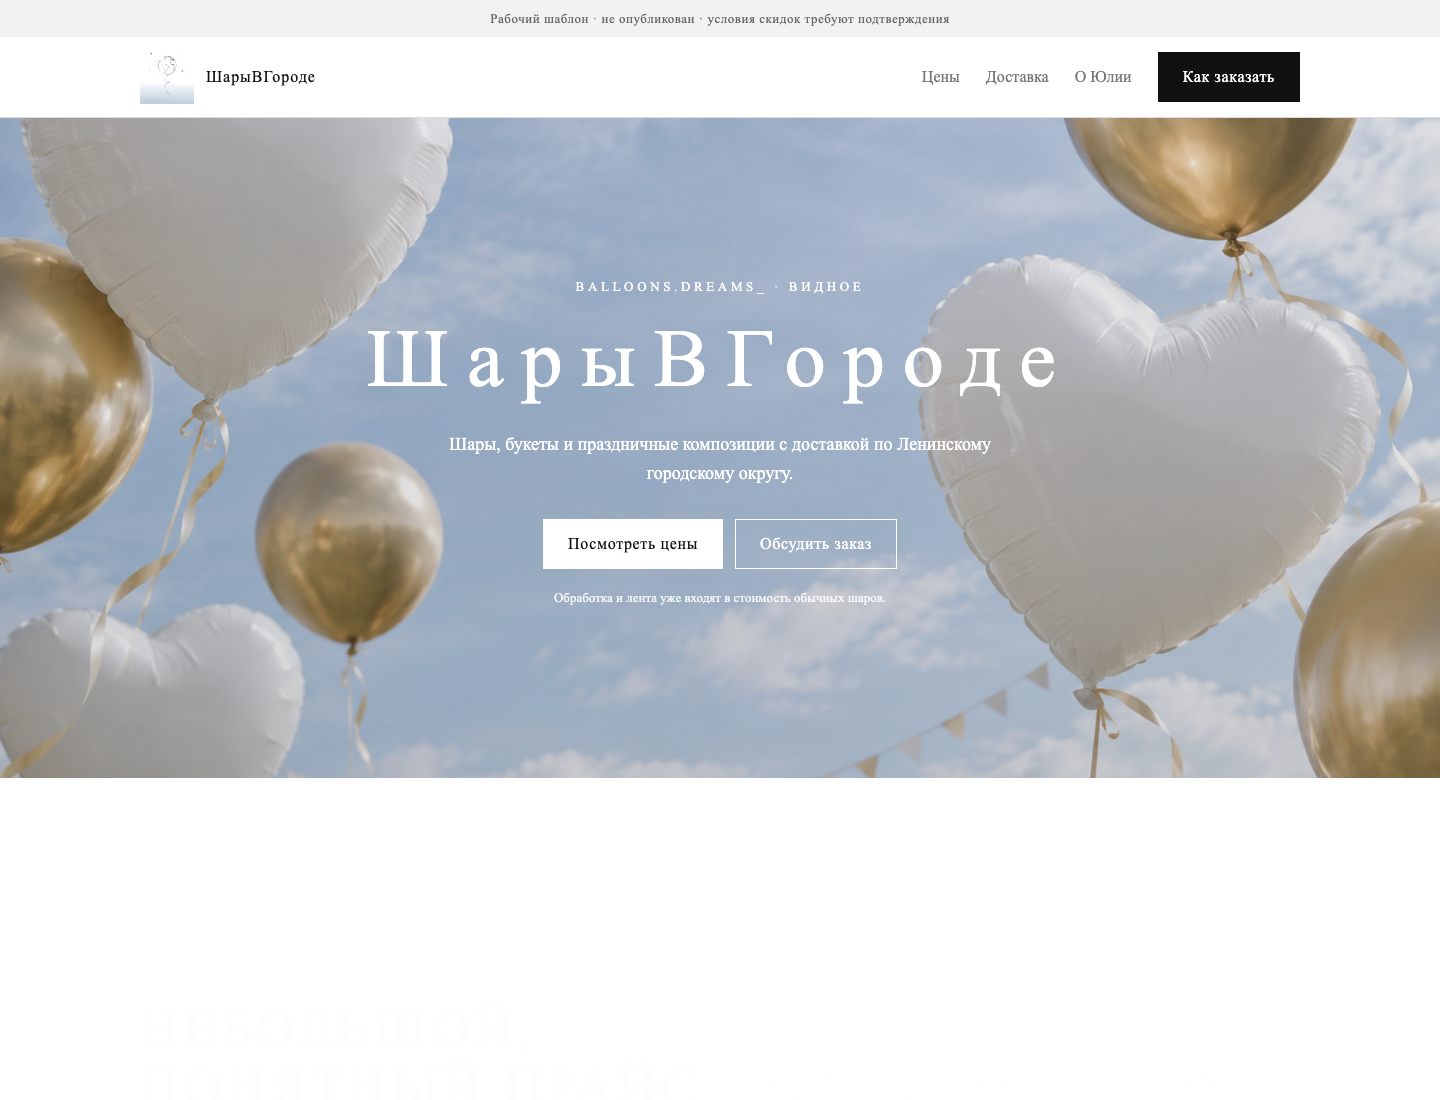
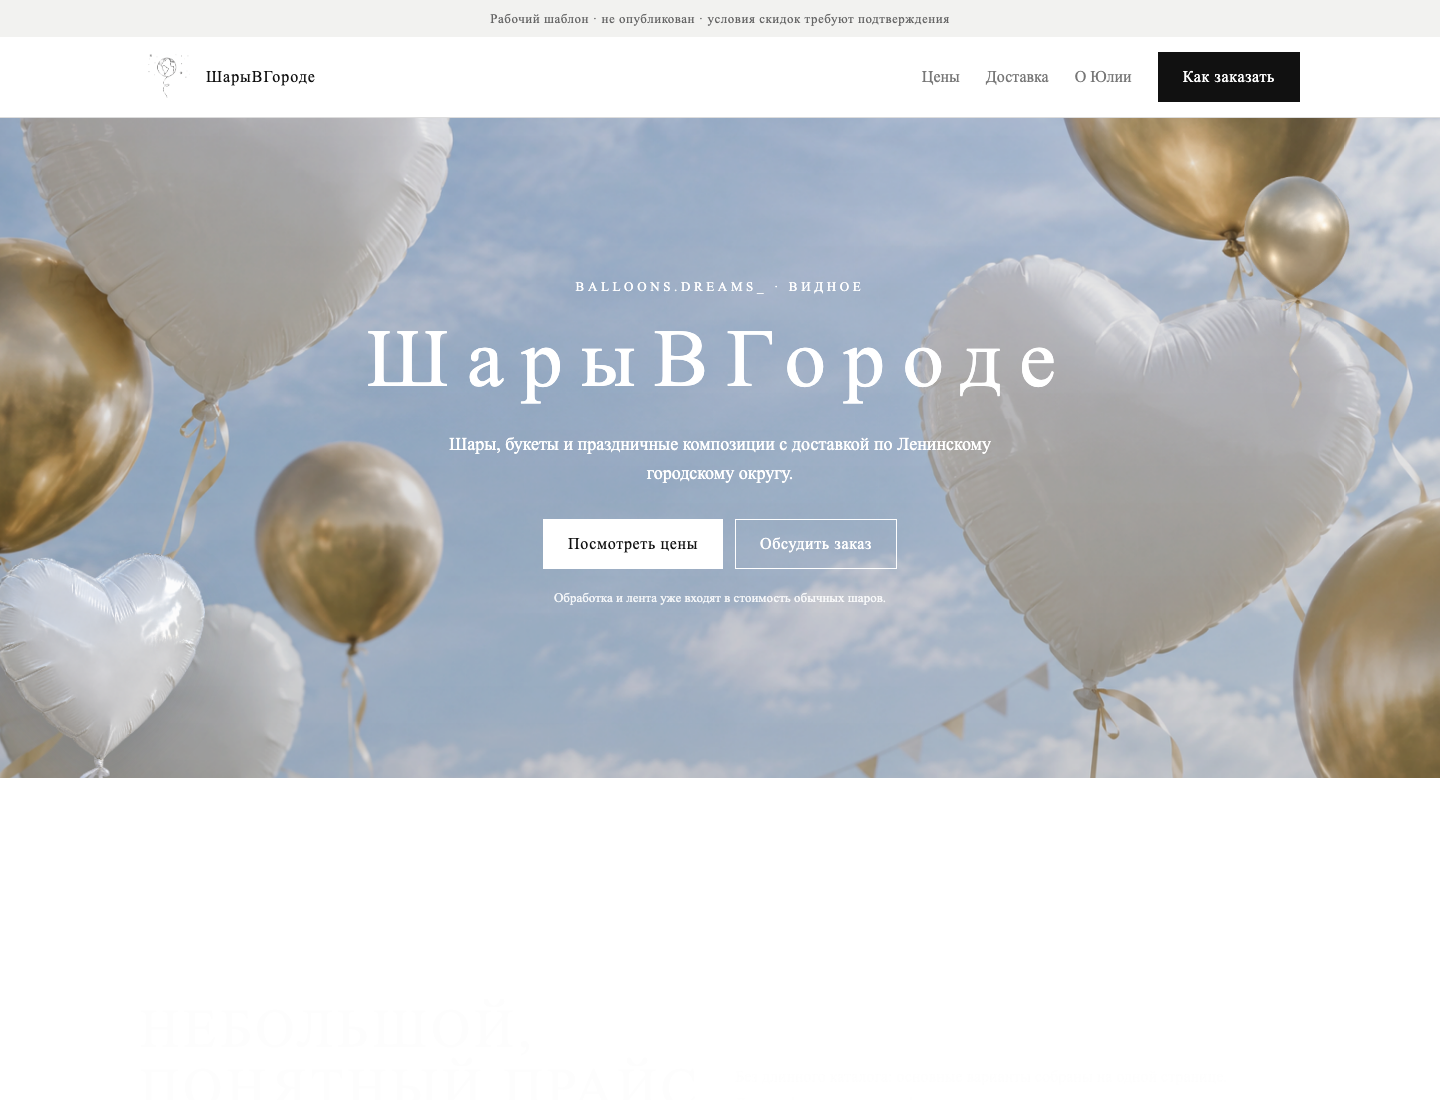
Обновить дизайн, анимации и шапку

Changed region(s): [[0.0, 0.4945, 0.1562, 0.7109], [0.8438, 0.1545, 0.9375, 0.2782], [0.0938, 0.0618, 0.1562, 0.0927]]

diff --git a/index.html b/index.html
@@ -50,7 +50,7 @@
     }
     nav { min-height: 80px; display: flex; align-items: center; justify-content: space-between; gap: 24px; }
     .brand { display: flex; align-items: center; gap: 12px; text-decoration: none; font-weight: 400; letter-spacing: .06em; }
-    .brand img { width: 54px; height: 54px; object-fit: cover; mix-blend-mode: multiply; }
+    .brand img { width: 54px; height: 54px; object-fit: contain; }
     .nav-links { display: flex; gap: 26px; align-items: center; color: var(--muted); }
     .nav-links a { text-decoration: none; font-size: 16px; }
     .button {
@@ -86,10 +86,21 @@
     }
     .hero-card::after { content: ""; position: absolute; z-index: 0; inset: -3%; background: url("assets/hero-reference-style.png") center/cover no-repeat; animation: hero-drift 14s ease-in-out infinite alternate; }
     .hero-card::before { content: ""; position: absolute; z-index: 1; inset: 0; background: linear-gradient(rgba(0,0,0,.08), rgba(0,0,0,.15)); }
-    .hero-copy { position: relative; z-index: 2; max-width: 900px; margin: auto; padding: 80px 24px; color: #fff; text-align: center; }
+    .hero-float { position: absolute; z-index: 2; height: auto; pointer-events: none; filter: drop-shadow(0 18px 22px rgba(32,47,64,.14)); }
+    .hero-float--heart { left: -2%; bottom: -20%; width: clamp(180px, 18vw, 280px); animation: float-heart 5.8s ease-in-out infinite; }
+    .hero-float--gold { right: 3%; top: 13%; width: clamp(115px, 11vw, 175px); animation: float-gold 7s ease-in-out -2.4s infinite; }
+    .hero-copy { position: relative; z-index: 3; max-width: 900px; margin: auto; padding: 80px 24px; color: #fff; text-align: center; }
     @keyframes hero-drift {
       from { transform: translate3d(-.7%, .5%, 0) scale(1.01); }
       to { transform: translate3d(.7%, -1.2%, 0) scale(1.055); }
+    }
+    @keyframes float-heart {
+      0%, 100% { transform: translate3d(0, 14px, 0) rotate(-2deg); }
+      50% { transform: translate3d(18px, -34px, 0) rotate(3deg); }
+    }
+    @keyframes float-gold {
+      0%, 100% { transform: translate3d(0, 18px, 0) rotate(2deg); }
+      50% { transform: translate3d(-22px, -42px, 0) rotate(-3deg); }
     }
     .eyebrow { margin: 0 0 18px; color: inherit; font-size: 13px; font-weight: 400; letter-spacing: .28em; text-transform: uppercase; }
     h1, h2 { margin: 0; font-family: "Times New Roman", Times, serif; font-weight: 400; line-height: 1.08; }
@@ -180,11 +191,14 @@
     footer .shell { display: flex; justify-content: space-between; gap: 20px; border-top: 1px solid var(--line); padding-top: 24px; }
 
     @media (max-width: 860px) {
-      .nav-links a:not(.button) { display: none; }
+      .nav-links { gap: 14px; }
+      .nav-links a { font-size: 14px; }
       .hero-card { min-height: 640px; grid-template-columns: 1fr; align-items: center; background-position: center; }
       .hero-card::before { background: rgba(0,0,0,.12); }
       .hero-card { position: relative; }
       .hero-copy { padding: 80px 24px; }
+      .hero-float--heart { left: -80px; width: 230px; }
+      .hero-float--gold { right: -45px; width: 145px; }
       .section-head, .delivery-grid, .about-grid, .order-card { grid-template-columns: 1fr; }
       .price-grid { grid-template-columns: 1fr 1fr; }
       .portrait-placeholder { min-height: 340px; }
@@ -198,6 +212,8 @@
       .hero { padding-top: 0; }
       .hero-card { min-height: 560px; border-radius: 0; background-position: center; }
       .hero-copy { padding: 70px 22px; }
+      .hero-float--heart { left: -78px; bottom: -15%; width: 190px; }
+      .hero-float--gold { right: -48px; top: 11%; width: 125px; }
       h1 { max-width: 100%; font-size: clamp(34px, 11vw, 48px); letter-spacing: .14em; overflow-wrap: anywhere; }
       .lead { margin: 18px 0 22px; font-size: 16px; }
       .actions .button { width: 100%; }
@@ -211,6 +227,7 @@
     @media (prefers-reduced-motion: reduce) {
       html { scroll-behavior: auto; }
       .hero-card::after { animation: none; }
+      .hero-float { animation: none; }
       .has-motion .reveal { opacity: 1; transform: none; transition: none; }
     }
   </style>
@@ -219,9 +236,9 @@
   <div class="draft">Рабочий шаблон · не опубликован · условия скидок требуют подтверждения</div>
   <header>
     <nav class="shell" aria-label="Основная навигация">
-      <a class="brand" href="#top"><img src="assets/logo-original.jpg" alt="Логотип «ШарыВГороде»: воздушный шар с глобусом"><span>ШарыВГороде</span></a>
+      <a class="brand" href="#top"><img src="assets/logo-clean.png" alt="Логотип «ШарыВГороде»: воздушный шар с глобусом"><span>ШарыВГороде</span></a>
       <div class="nav-links">
-        <a href="#prices">Цены</a><a href="#delivery">Доставка</a><a href="#about">О Юлии</a><a class="button" href="#order">Как заказать</a>
+        <a href="#about">Обо мне</a><a href="#prices">Каталог</a><a href="#delivery">Доставка и цены</a><a href="#order">Контакты</a>
       </div>
     </nav>
   </header>
@@ -229,6 +246,8 @@
   <main id="top">
     <section class="hero">
       <div class="shell hero-card">
+        <img class="hero-float hero-float--heart" src="assets/balloon-heart.png" alt="" aria-hidden="true">
+        <img class="hero-float hero-float--gold" src="assets/balloon-gold.png" alt="" aria-hidden="true">
         <div class="hero-copy">
           <p class="eyebrow">balloons.dreams_ · Видное</p>
           <h1>ШарыВГороде</h1>

diff --git a/README.md b/README.md
@@ -8,8 +8,9 @@
 - `preview-desktop.png` — превью первого экрана;
 - `brief.md` — единый бриф, спорные условия и список недостающего;
 - `research.md` — разбор трёх сайтов-референсов;
-- `assets/logo-original.jpg` — логотип из переписки;
+- `assets/logo-clean.png` — очищенный логотип без голубого фона;
 - `assets/hero-reference-style.png` — новый визуал первого экрана в стилистике референса.
+- `assets/balloon-heart.png` и `assets/balloon-gold.png` — отдельные слои движущихся шаров.
 
 Следующий шаг после согласования дизайна: заменить плейсхолдер фото, добавить работы Юлии и подключить реальный контакт для заказа.
 
